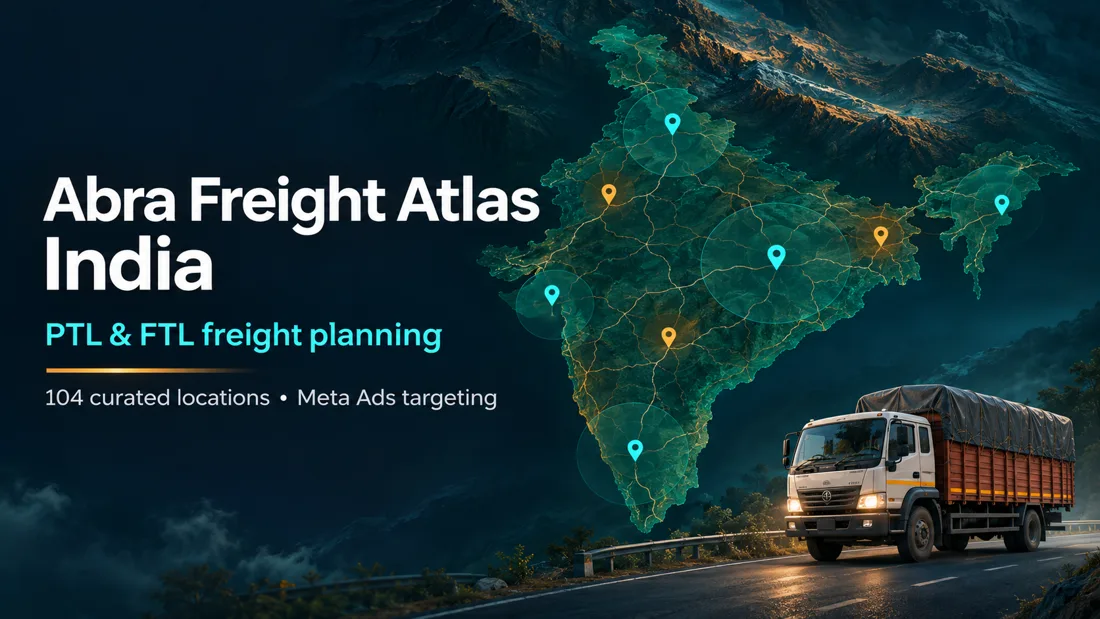
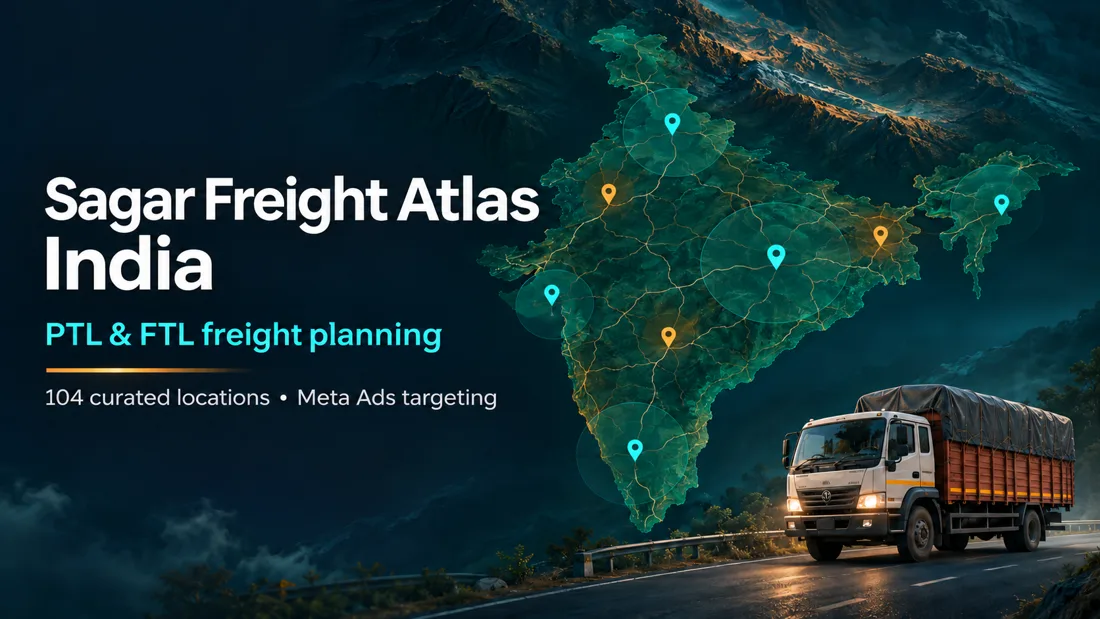
Replace project artwork with Sagar Freight Atlas image

diff --git a/index.html b/index.html
@@ -390,7 +390,7 @@
           </div>
         </article>
         <article class="proj-card">
-          <img src="/assets/images/projects/india-ptl-ftl-maps.webp" alt="Abra Freight Atlas India map and truck for PTL and FTL freight planning" width="1100" height="619" loading="lazy" style="display:block;width:100%;height:auto">
+          <img src="/assets/images/projects/india-ptl-ftl-maps.webp" alt="Sagar Freight Atlas India map and truck for PTL and FTL freight planning" width="1100" height="619" loading="lazy" style="display:block;width:100%;height:auto">
           <div class="proj-body">
             <h3>India PTL and FTL Maps</h3>
             <p>Abra Freight Atlas maps 104 industrial and distribution locations for domestic freight and Meta Ads planning.</p>

diff --git a/projects/index.html b/projects/index.html
@@ -44,7 +44,7 @@
           </div>
         </article>
         <article class="proj-card">
-          <img src="/assets/images/projects/india-ptl-ftl-maps.webp" alt="Abra Freight Atlas India map and truck for PTL and FTL freight planning" width="1100" height="619" loading="lazy" style="display:block;width:100%;height:auto">
+          <img src="/assets/images/projects/india-ptl-ftl-maps.webp" alt="Sagar Freight Atlas India map and truck for PTL and FTL freight planning" width="1100" height="619" loading="lazy" style="display:block;width:100%;height:auto">
           <div class="proj-body">
             <h3>India PTL and FTL Maps</h3>
             <p>Abra Freight Atlas maps 104 industrial and distribution locations for domestic freight and Meta Ads planning.</p>
